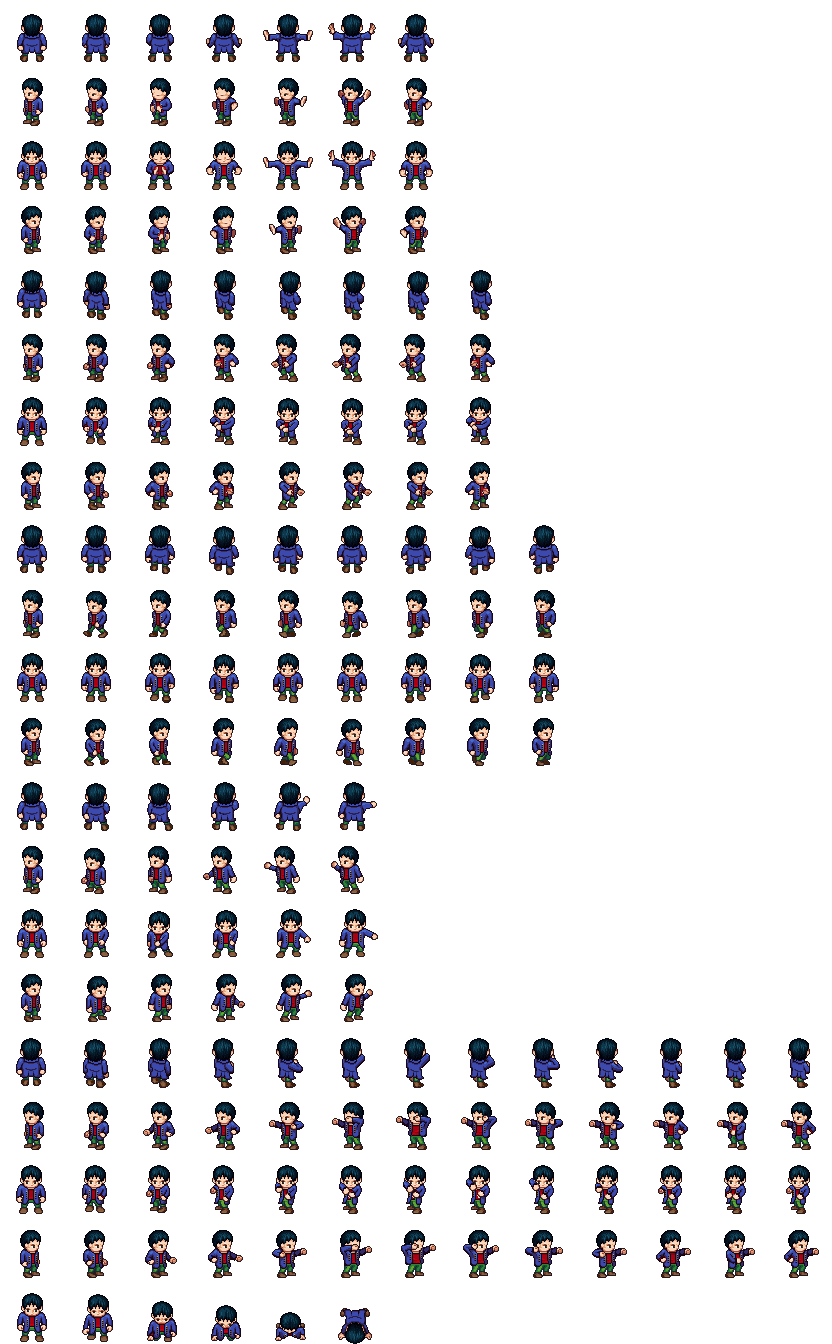
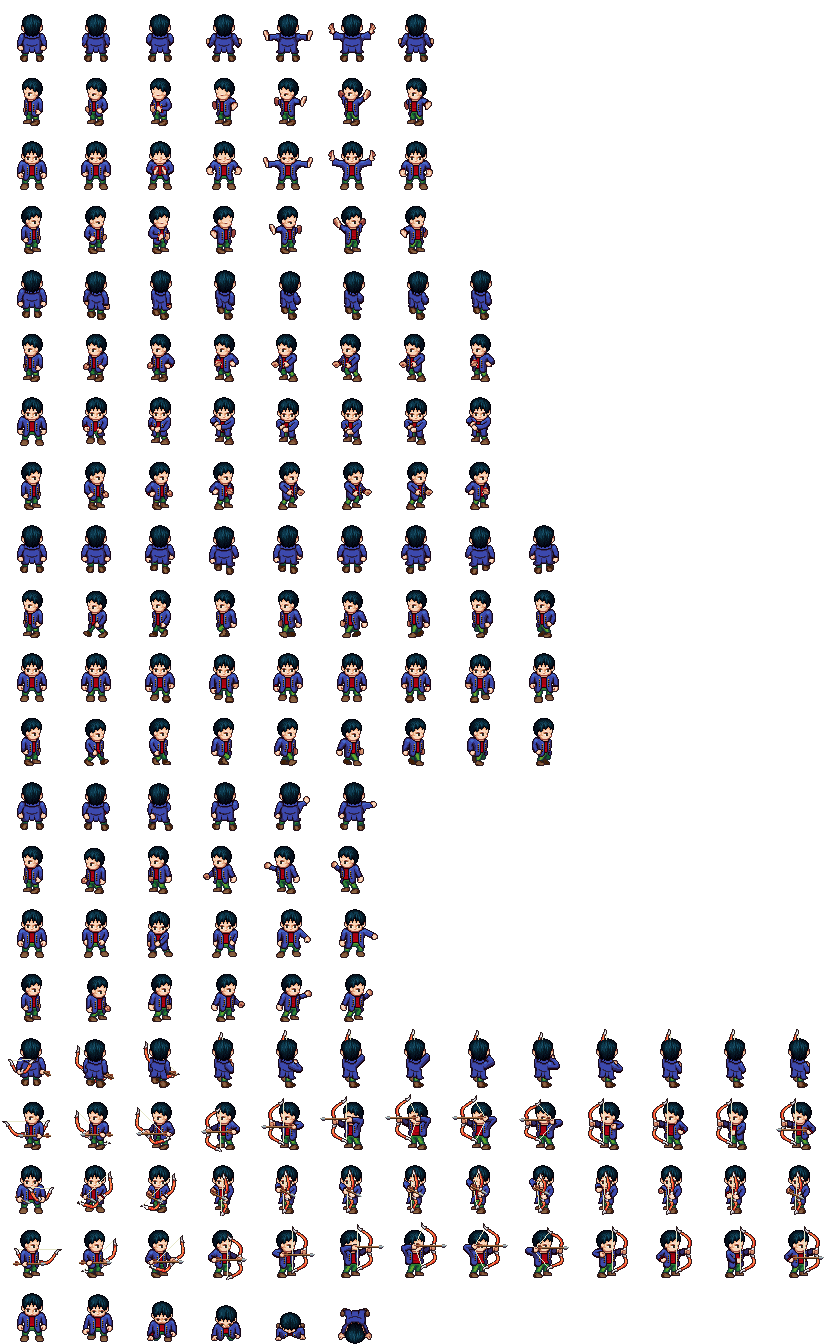
feat: arrow shoot animation

diff --git a/src/rpg-multiplayer-game/src/client/src/phaser-client/scenes/Game.ts b/src/rpg-multiplayer-game/src/client/src/phaser-client/scenes/Game.ts
@@ -373,9 +373,10 @@ export default class Game extends Phaser.Scene {
 
   update(t: number, dt: number) {
     this.handleMovementInput()
+    this.handleFightInput()
   }
 
-  private handleMovementInput() {
+  private handleMovementInput(): void {
     if (!gameState.playerCanMove) return
 
     const newMovementInput: MovementInput = { ...this.lastMovementInput }
@@ -401,7 +402,7 @@ export default class Game extends Phaser.Scene {
     this.updateLastMovementInput(newMovementInput)
   }
 
-  private updateLastMovementInput(movementInput: MovementInput) {
+  private updateLastMovementInput(movementInput: MovementInput): void {
     // Capture last movement to compare what changed
     const { left, right, up, down } = this.lastMovementInput
     if (
@@ -414,6 +415,14 @@ export default class Game extends Phaser.Scene {
       this.socket.emit(NetworkEventKeys.PlayersInput, this.lastMovementInput)
 
       this.currentPlayer.update(this.lastMovementInput)
+    }
+  }
+
+  private handleFightInput(): void {
+    // if (!gameState.gameFight.fightMode) return
+
+    if (Phaser.Input.Keyboard.JustDown(this.cursors.space)) {
+      this.currentPlayer.fight();
     }
   }
 

diff --git a/src/rpg-multiplayer-game/src/client/src/phaser-client/anims/AnimationHandler.ts b/src/rpg-multiplayer-game/src/client/src/phaser-client/anims/AnimationHandler.ts
@@ -50,5 +50,33 @@ export class AnimationHandler {
       frameRate: 10,
       repeat: -1
     })
+
+    scene.anims.create({
+      key: `${avatar}-${AvatarAnimationKeys.SHOOT_DOWN}`,
+      frames: scene.anims.generateFrameNumbers(avatar, { start: getFrameNumber(19, 1), end: getFrameNumber(19, 11) }),
+      frameRate: 15,
+      // repeat: -1
+    })
+  
+    scene.anims.create({
+      key: `${avatar}-${AvatarAnimationKeys.SHOOT_UP}`,
+      frames: scene.anims.generateFrameNumbers(avatar, { start: getFrameNumber(17, 1), end: getFrameNumber(17, 11) }),
+      frameRate: 15,
+      // repeat: -1
+    })
+  
+    scene.anims.create({
+      key: `${avatar}-${AvatarAnimationKeys.SHOOT_SIDE}`,
+      frames: scene.anims.generateFrameNumbers(avatar, { start: getFrameNumber(20, 1), end: getFrameNumber(20, 11) }),
+      frameRate: 15,
+      // repeat: -1
+    })
+  
+    scene.anims.create({
+      key: `${avatar}-${AvatarAnimationKeys.DIE}`,
+      frames: scene.anims.generateFrameNumbers(avatar, { start: getFrameNumber(21, 1), end: getFrameNumber(21, 6) }),
+      frameRate: 10,
+      // repeat: -1
+    })
   }
 }

diff --git a/src/rpg-multiplayer-game/src/client/src/phaser-client/characters/GenericLpc.ts b/src/rpg-multiplayer-game/src/client/src/phaser-client/characters/GenericLpc.ts
@@ -63,4 +63,38 @@ export default class GenericLpc extends Player {
       this.anims.play(parts.join('-'))
     }
   }
+
+  throwArrow() {
+    const { avatar } = this.playerData;
+    let animation: string | undefined;
+
+    const currentAnimation = this.anims.getName();
+    let flipX = false;
+
+    switch (this.orientation) {
+      case 'left':
+        animation = `${avatar}-${AvatarAnimationKeys.SHOOT_SIDE}`;
+        flipX = true;
+        break;
+      case 'right':
+        animation = `${avatar}-${AvatarAnimationKeys.SHOOT_SIDE}`;
+        break;
+      case 'up':
+        animation = `${avatar}-${AvatarAnimationKeys.SHOOT_UP}`;
+        break;
+      case 'down':
+        animation = `${avatar}-${AvatarAnimationKeys.SHOOT_DOWN}`;
+        break;
+    }
+    if (animation) {
+      this.anims.play(animation);
+      this.anims.playAfterRepeat(currentAnimation);
+      this.setFlipX(flipX)
+    }
+  }
+
+  fight() {
+    super.fight();
+    this.throwArrow();
+  }
 }

diff --git a/src/rpg-multiplayer-game/src/client/src/phaser-client/characters/Player.ts b/src/rpg-multiplayer-game/src/client/src/phaser-client/characters/Player.ts
@@ -4,6 +4,7 @@ import { MovementInput, PlayerId } from '../types/playerTypes'
 
 export default abstract class Player extends Phaser.GameObjects.Sprite {
   private playerId: PlayerId
+  protected orientation: 'left' | 'right' | 'up' | 'down' | undefined;
 
   constructor(scene: Phaser.Scene, x: number, y: number, texture: string | Phaser.Textures.Texture, playerId: string, frame?: string | number | undefined) {
     super(scene, x, y, texture)
@@ -15,6 +16,18 @@ export default abstract class Player extends Phaser.GameObjects.Sprite {
   }
 
   update(movementInput: MovementInput) {
+    if (movementInput.left) {
+      this.orientation = 'left';
+    } else if (movementInput.right) {
+      this.orientation = 'right';
+    } else if (movementInput.up) {
+      this.orientation = 'up';
+    } else if (movementInput.down) {
+      this.orientation = 'down';
+    }
+  }
+
+  fight() {
     // Override this method on child classes
   }
 }

diff --git a/src/rpg-multiplayer-game/src/client/src/phaser-client/consts/AvatarAnimationKeys.ts b/src/rpg-multiplayer-game/src/client/src/phaser-client/consts/AvatarAnimationKeys.ts
@@ -5,6 +5,10 @@ enum AvatarAnimationKeys {
   WALK_DOWN = 'walk-down',
   WALK_UP = 'walk-up',
   WALK_SIDE = 'walk-side',
+  SHOOT_DOWN = 'shoot-down',
+  SHOOT_UP = 'shoot-up',
+  SHOOT_SIDE = 'shoot-side',
+  DIE = 'die',
 };
 
 export default AvatarAnimationKeys
